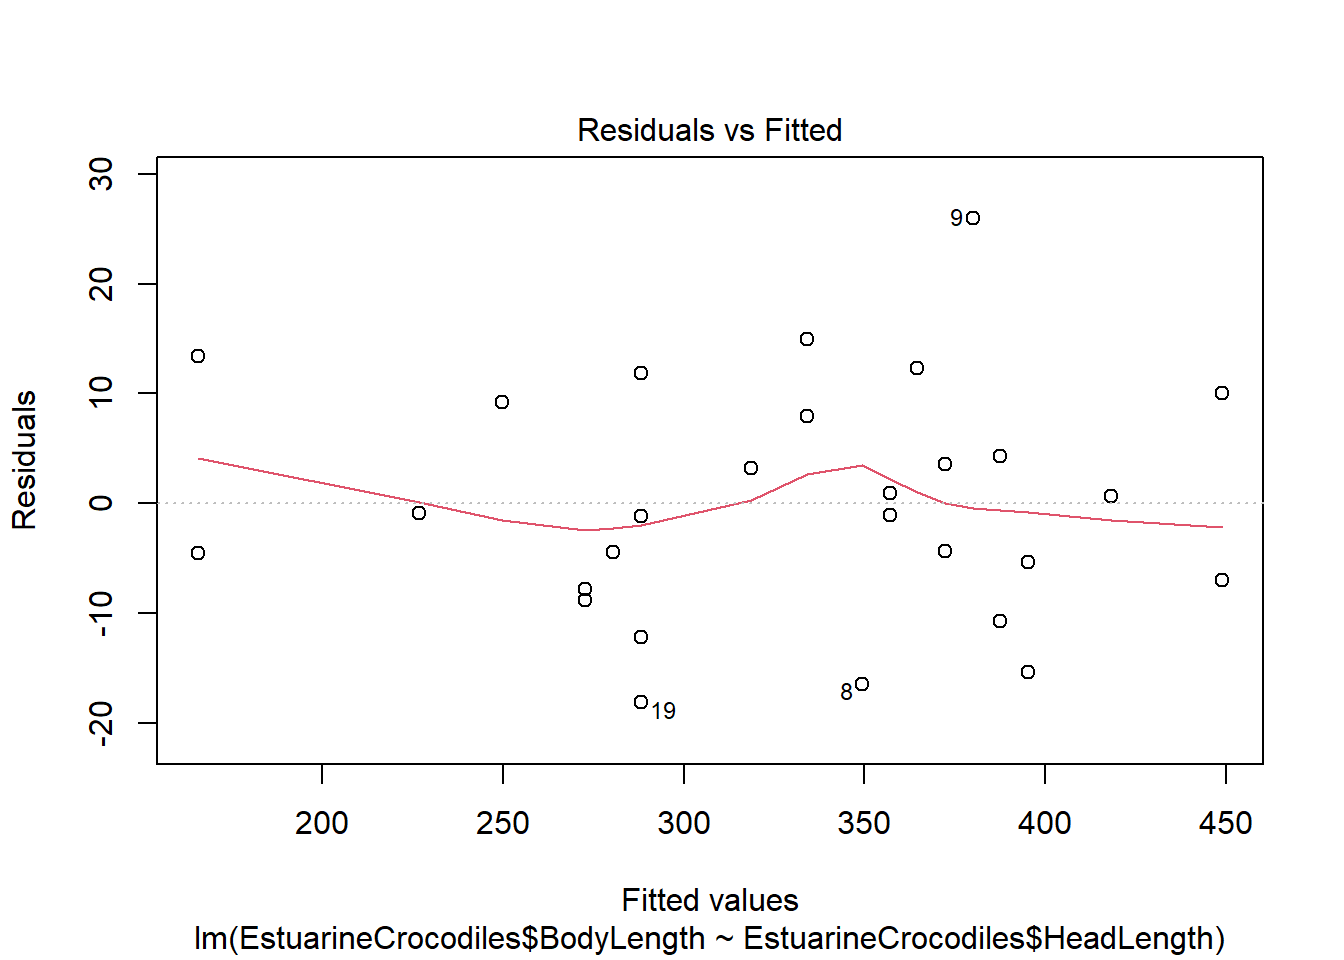
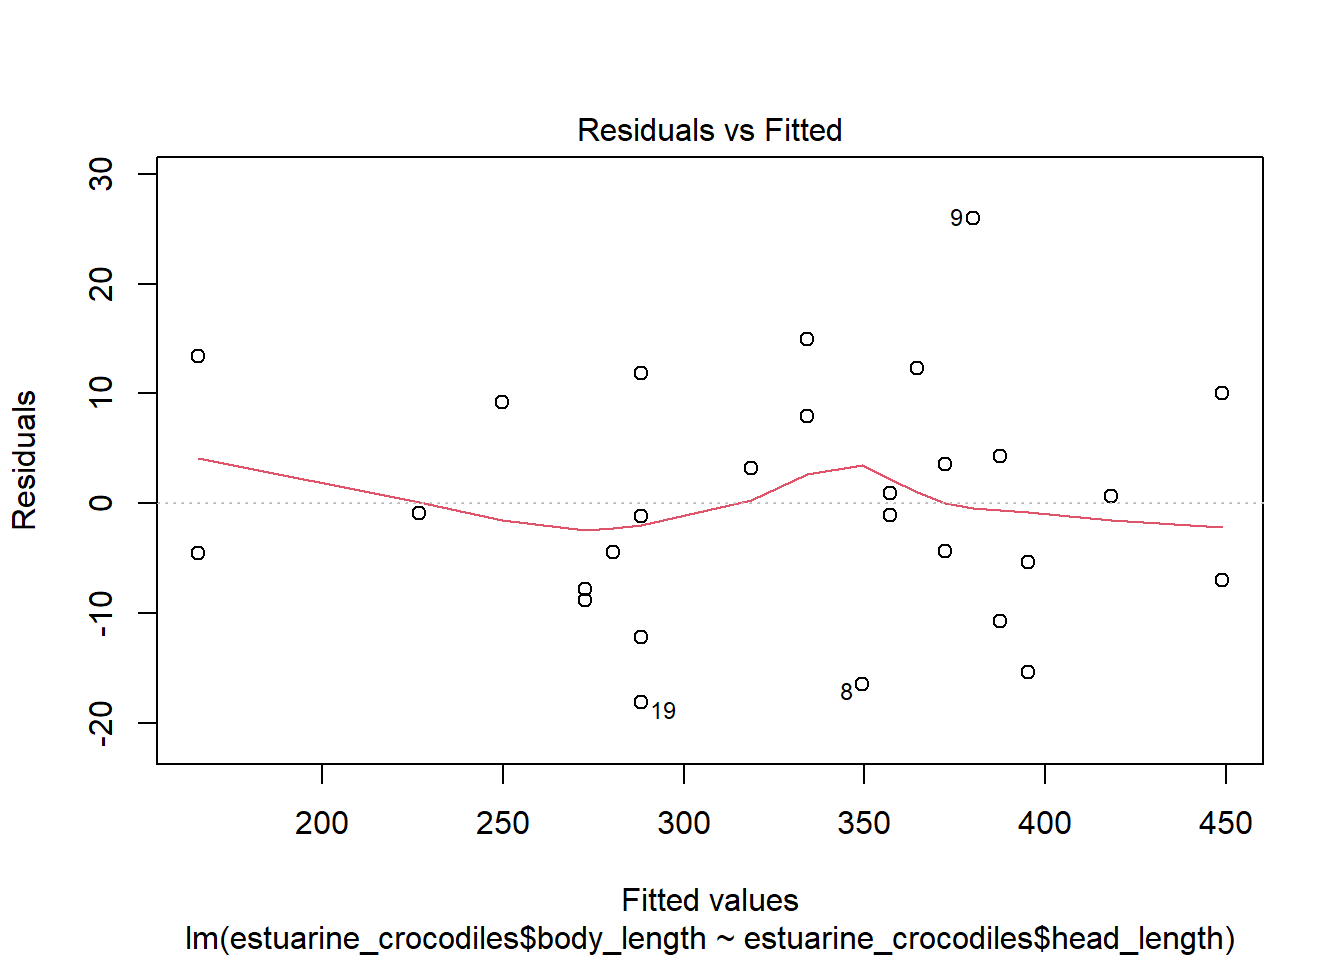
Updated data files

Changed region(s): [[0.125, 0.9688, 0.9375, 1.0]]

diff --git a/docs/Lesson23.html b/docs/Lesson23.html
@@ -476,8 +476,8 @@ Y = \beta_0 + \beta_1 X + \epsilon
 <h3>Scatterplot</h3>
 <p>To check requirement 1, we do two things. The first is to make a scatterplot and to visually check to see if there is a linear relationship between <span class="math inline">\(X\)</span> and <span class="math inline">\(Y\)</span>. This has been referred to as a “hot dog” shape in the data.</p>
 <p>We want to make sure that there is no distinct curvature or other nonlinear characteristics. This is simply a visual check of the data.</p>
-<p>Consider the scatterplot of the estuarine crocodile data <a href="./data/Estuarine_Crocodile.xlsx">EstuarineCrocodile.xlsx</a>:</p>
-<p><img src = "Images/EstuarineCrocodile-Scatterplot-RegLine-Excel.PNG"></p>
+<p>Consider the scatterplot of the estuarine crocodile data <a href="./data/estuarine_crocodiles.xlsx">estuarine_crocodiles.xlsx</a>:</p>
+<p><img src = "./Images/estuarine_crocodiles-Scatterplot-RegLine-Excel.PNG"></p>
 <p>Notice how the data follow a linear shape. This data set shows a particularly strong linear relationship. In many cases, the data will show more spread than is illustrated here.</p>
 </div>
 <div id="residuals" class="section level3">
@@ -495,10 +495,10 @@ R Instructions
 <div class="Software">
 <p><strong>To find the residuals in R, do the following:</strong></p>
 <ul>
-<li>Read the data into R: <a href="./data/Estuarine_Crocodile.xlsx">EstuarineCrocodile.xlsx</a></li>
+<li>Read the data into R: <a href="./data/estuarine_crocodiles.xlsx">estuarine_crocodiles.xlsx</a></li>
 <li>Perform a linear regression using the <code>lm( )</code> function.</li>
 </ul>
-<pre class="r"><code>estuarine.lm &lt;- lm(EstuarineCrocodiles$BodyLength ~ EstuarineCrocodiles$HeadLength)</code></pre>
+<pre class="r"><code>estuarine.lm &lt;- lm(estuarine_crocodiles$body_length ~ estuarine_crocodiles$head_length)</code></pre>
 <ul>
 <li>Use the name of the lm that you created and the <code>$</code> to access the residuals.</li>
 </ul>
@@ -529,10 +529,10 @@ Excel Instructions
 </div>
 <div class="Software">
 <ul>
-<li>Read the data into R: <a href="./data/Estuarine_Crocodile.xlsx">EstuarineCrocodile.xlsx</a></li>
+<li>Read the data into R: <a href="./data/estuarine_crocodiles.xlsx">estuarine_crocodiles.xlsx</a></li>
 <li>Perform a linear regression using the <code>lm( )</code> function.</li>
 </ul>
-<pre class="r"><code>estuarine.lm &lt;- lm(EstuarineCrocodiles$BodyLength ~ EstuarineCrocodiles$HeadLength)</code></pre>
+<pre class="r"><code>estuarine.lm &lt;- lm(estuarine_crocodiles$body_length ~ estuarine_crocodiles$head_length)</code></pre>
 <ul>
 <li>Use the name of the lm that you created and the <code>plot()</code> function to create the residual plot. There are 4 plots that are created by default. The residuals vs. fitted-values plot is the first, so use <code>plot(  , which = 1)</code> to obtain just the first plot.</li>
 </ul>
@@ -763,24 +763,24 @@ Excel Instructions
 </div>
 <div class="Software">
 <ul>
-<li>Read the data into R: <a href="./data/Estuarine_Crocodile.xlsx">EstuarineCrocodile.xlsx</a></li>
+<li>Read the data into R: <a href="./data/estuarine_crocodiles.xlsx">estuarine_crocodiles.xlsx</a></li>
 <li>Perform a linear regression using the <code>lm( )</code> function.</li>
 <li>See the results using <code>summary( )</code>.</li>
 </ul>
-<pre class="r"><code>estuarine.lm &lt;- lm(EstuarineCrocodiles$BodyLength ~ EstuarineCrocodiles$HeadLength)
+<pre class="r"><code>estuarine.lm &lt;- lm(estuarine_crocodiles$body_length ~ estuarine_crocodiles$head_length)
 summary(estuarine.lm)</code></pre>
 <pre><code>
 Call:
-lm(formula = EstuarineCrocodiles$BodyLength ~ EstuarineCrocodiles$HeadLength)
+lm(formula = estuarine_crocodiles$body_length ~ estuarine_crocodiles$head_length)
 
 Residuals:
      Min       1Q   Median       3Q      Max 
 -18.1302  -7.1968  -0.9602   8.2245  25.9486 
 
 Coefficients:
-                               Estimate Std. Error t value Pr(&gt;|t|)    
-(Intercept)                    -18.2740     9.9663  -1.834   0.0782 .  
-EstuarineCrocodiles$HeadLength   7.6601     0.2152  35.588   &lt;2e-16 ***
+                                 Estimate Std. Error t value Pr(&gt;|t|)    
+(Intercept)                      -18.2740     9.9663  -1.834   0.0782 .  
+estuarine_crocodiles$head_length   7.6601     0.2152  35.588   &lt;2e-16 ***
 ---
 Signif. codes:  0 &#39;***&#39; 0.001 &#39;**&#39; 0.01 &#39;*&#39; 0.05 &#39;.&#39; 0.1 &#39; &#39; 1
 
@@ -797,7 +797,7 @@ n = 28 \\
 \hat Y = -18.274 + 7.660 X \\
 \end{array}
 \]</span></p>
-<p>The test statistic follows a <span class="math inline">\(t\)</span>-distribution. We are conducting a test for the slope. The information related to the slope is given in the second row of the “Estimate” table, which is labeled “EstuarineCrocodiles$HeadLength”. Looking across the second row, we find the value of <span class="math inline">\(t\)</span> is given as 35.588. <span class="math display">\[
+<p>The test statistic follows a <span class="math inline">\(t\)</span>-distribution. We are conducting a test for the slope. The information related to the slope is given in the second row of the “Estimate” table, which is labeled “estuarine_crocodiles$head_length”. Looking across the second row, we find the value of <span class="math inline">\(t\)</span> is given as 35.588. <span class="math display">\[
 t = 35.588
 \]</span></p>
 <p>This is a tremendously large value for t. This indicates that there is a lot of evidence against the null hypothesis.</p>
@@ -811,16 +811,16 @@ df = 28-2 = 26
 <div id="manatees" class="section level3">
 <h3>Manatees</h3>
 <p><img src = "Images/Step4.png"></p>
-<p>Here is an excerpt from the output for the <a href="./data/Manatees.xlsx">Manatees.xlsx</a> data set:</p>
-<table style="width:51%;">
+<p>Here is an excerpt from the output for the <a href="./data/manatees.xlsx">manatees.xlsx</a> data set:</p>
+<table style="width:56%;">
 <colgroup>
-<col width="36%" />
-<col width="15%" />
+<col width="27%" />
+<col width="27%" />
 </colgroup>
 <thead>
 <tr class="header">
-<th align="center">Power Boats (in 1000’s)</th>
-<th align="center">Manatees</th>
+<th align="center">power_boats_1000s</th>
+<th align="center">manatees_killed</th>
 </tr>
 </thead>
 <tbody>
@@ -863,20 +863,20 @@ n = 35 \\
 \end{array}
 \]</span></p>
 <p>The test statistic follows a <span class="math inline">\(t\)</span>-distribution.</p>
-<pre class="r"><code>manatee.lm &lt;- lm(Manatees$Manatees ~ Manatees$`Power Boats (in 1000&#39;s)`)
+<pre class="r"><code>manatee.lm &lt;- lm(manatees$manatees_killed ~ manatees$power_boats_1000s)
 summary(manatee.lm)</code></pre>
 <pre><code>
 Call:
-lm(formula = Manatees$Manatees ~ Manatees$`Power Boats (in 1000&#39;s)`)
+lm(formula = manatees$manatees_killed ~ manatees$power_boats_1000s)
 
 Residuals:
     Min      1Q  Median      3Q     Max 
 -15.758  -6.647  -1.239   4.349  22.344 
 
 Coefficients:
-                                     Estimate Std. Error t value Pr(&gt;|t|)    
-(Intercept)                        -42.541613   6.349634   -6.70 1.25e-07 ***
-Manatees$`Power Boats (in 1000&#39;s)`   0.129162   0.008338   15.49  &lt; 2e-16 ***
+                             Estimate Std. Error t value Pr(&gt;|t|)    
+(Intercept)                -42.541613   6.349634   -6.70 1.25e-07 ***
+manatees$power_boats_1000s   0.129162   0.008338   15.49  &lt; 2e-16 ***
 ---
 Signif. codes:  0 &#39;***&#39; 0.001 &#39;**&#39; 0.01 &#39;*&#39; 0.05 &#39;.&#39; 0.1 &#39; &#39; 1
 
@@ -910,17 +910,17 @@ R Instructions
 <div class="Software">
 <p><strong>To compute the confidence intervals for the regression coefficients in R, do the following:</strong></p>
 <ul>
-<li>Read the data into R: <a href="./data/Estuarine_Crocodile.xlsx">EstuarineCrocodile.xlsx</a></li>
+<li>Read the data into R: <a href="./data/estuarine_crocodiles.xlsx">estuarine_crocodiles.xlsx</a></li>
 <li>Perform a linear regression using the <code>lm( )</code> function.</li>
 </ul>
-<pre class="r"><code>manatee.lm &lt;- lm(Manatees$Manatees ~ Manatees$`Power Boats (in 1000&#39;s)`)</code></pre>
+<pre class="r"><code>manatee.lm &lt;- lm(manatees$manatees_killed ~ manatees$power_boats_1000s)</code></pre>
 <ul>
 <li>Use the <code>confint( )</code> function with the name of your lm object placed inside to obtain the confidence intervals. Use <code>confint(  , conf.level = 0.95)</code> to control the confidence level.</li>
 </ul>
 <pre class="r"><code>confint(manatee.lm, level = 0.95)</code></pre>
-<pre><code>                                         2.5 %      97.5 %
-(Intercept)                        -55.4600405 -29.6231851
-Manatees$`Power Boats (in 1000&#39;s)`   0.1121986   0.1461254</code></pre>
+<pre><code>                                 2.5 %      97.5 %
+(Intercept)                -55.4600405 -29.6231851
+manatees$power_boats_1000s   0.1121986   0.1461254</code></pre>
 <p>The first row of the output gives the confidence interval for <span class="math inline">\(\beta_0\)</span>, the y-intercept. The second row of the output gives the confidence interval for <span class="math inline">\(\beta_1\)</span>, the slope.</p>
 <p><br></p>
 </div>
@@ -941,11 +941,11 @@ Answer the following questions:
 </ol>
 <a href = "javascript:showhide('Q1')"><span style="font-size:8pt;">Show/Hide Solution</span></a>
 <div id="Q1" style="display:none;">
-<pre class="r"><code>estuarine.lm &lt;- lm(EstuarineCrocodiles$BodyLength ~ EstuarineCrocodiles$HeadLength)
+<pre class="r"><code>estuarine.lm &lt;- lm(estuarine_crocodiles$body_length ~ estuarine_crocodiles$head_length)
 confint(estuarine.lm, level = 0.95)</code></pre>
-<pre><code>                                    2.5 %   97.5 %
-(Intercept)                    -38.760103 2.212044
-EstuarineCrocodiles$HeadLength   7.217669 8.102540</code></pre>
+<pre><code>                                      2.5 %   97.5 %
+(Intercept)                      -38.760103 2.212044
+estuarine_crocodiles$head_length   7.217669 8.102540</code></pre>
 <center>
 <span class="math display">\[
 (7.218,~8.103)
